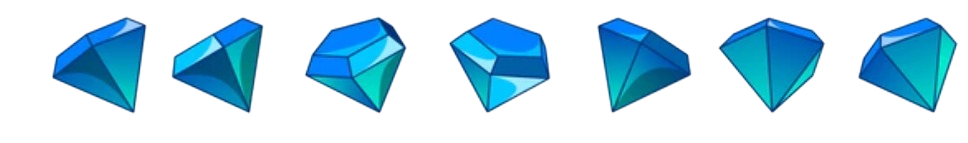
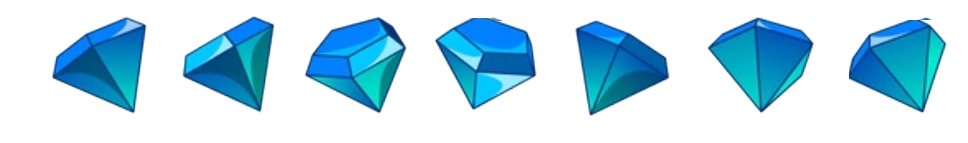
fixing animation

Changed region(s): [[0.4339, 0.1119, 0.9917, 0.8112], [0.155, 0.1119, 0.3099, 0.7832]]

diff --git a/oop2_proj/src/FileManager.cpp b/oop2_proj/src/FileManager.cpp
@@ -178,23 +178,26 @@ const AnimationData& FileManager::getStaticData(icons object)
 //--------------------------------------------------------------------
 //Set the Static objects animations data and time.
 
-AnimationData FileManager::createStaticAnimationData(const sf::Vector2i size,const sf::Vector2i initSpace,
-	const sf::Vector2i middleSpace,const int count)
+AnimationData FileManager::createStaticAnimationData(const sf::Vector2i size,const sf::Vector2i startPoint,const int count)
 {
 	auto staticData = AnimationData{};
-	auto currentStart = initSpace;
+	sf::Vector2i currSize;
+
+	currSize.x = size.x / count;
+	currSize.y = size.y;
+	auto currentStart = startPoint;
+
 	auto nextStart = [&]()
 	{
-		currentStart.x += size.x;
-		currentStart += middleSpace;
+		currentStart.x += currSize.x;
 		return currentStart;
 	};
 
-	staticData.m_data[Stay].emplace_back(currentStart, size);
+	staticData.m_data[Stay].emplace_back(currentStart, currSize);
 
 	for (int i = 0; i < count; i++) 
 	{
-		staticData.m_data[Stay].emplace_back(nextStart(), size);
+		staticData.m_data[Stay].emplace_back(nextStart(), currSize);
 	}
 
 	staticData.m_time[Stay] = 0.1f;
@@ -209,8 +212,8 @@ AnimationData FileManager::createStaticAnimationData(const sf::Vector2i size,con
 void FileManager::setAnimationsData()
 {
 
-	m_staticData[TELEPORT]=createStaticAnimationData({ 74, 100 }, { 518,0 }, { 0,0 }, 6);
-	m_staticData[DIAMOND] = createStaticAnimationData({ 100, 100 }, { 43,0 }, { 0,0 }, 6);
+	m_staticData[TELEPORT]=createStaticAnimationData({ 444, 100 }, { 518,0 }, 6);
+	m_staticData[DIAMOND] = createStaticAnimationData({ 900, 110 }, { 49,0 }, 7);
 
 	/*
 	m_staticData[KEY_DATA] =createStaticAnimationData({ 18,39 }, { 0,287 }, { 2,0 }, 4);

diff --git a/oop2_proj/src/DataBase.cpp b/oop2_proj/src/DataBase.cpp
@@ -43,6 +43,7 @@ void DataBase::createMovingObj(const char c, const sf::Vector2f& pos)
 	{
 	case PLAYER_C:
 		m_player = std::make_unique<Player>(pos);
+		std::cout << "player\n";
 		break;
 	//case FAIRY_C:
 	//	//cout << "add fairies" << i << " " << j << " \n";
@@ -137,7 +138,7 @@ void DataBase::move(sf::Time deltaTime)
 		f->move(deltaTime, m_levelSize);*/
 
 	//move current player
-	//m_players[m_currPlayer]->move(deltaTime, m_levelSize);
+	m_player->move(deltaTime);
 	//handelCollisions();
 }
 //-------------------------------------------------

diff --git a/oop2_proj/include/FileManager.h b/oop2_proj/include/FileManager.h
@@ -31,7 +31,7 @@ private:
 	FileManager(const FileManager&) = default;
 	FileManager& operator=(const FileManager&) = default;
 
-	AnimationData createStaticAnimationData(const sf::Vector2i ,const sf::Vector2i ,const sf::Vector2i ,const int );
+	AnimationData createStaticAnimationData(const sf::Vector2i,const sf::Vector2i ,const int );
 	void loadMovingObj();
 	void loadStaticObj();
 	void loadAudio();

diff --git a/oop2_proj/src/Controller.cpp b/oop2_proj/src/Controller.cpp
@@ -33,7 +33,7 @@ void Controller::run() try
 		m_window.draw(m_currLevelBackground);
 		m_dataBase.draw(m_window);
 		m_statusBar.draw(m_window);
-		//setView();
+		setView();
 		m_window.display();
 
 		for (auto event = sf::Event(); m_window.pollEvent(event); )

diff --git a/oop2_proj/src/StaticSrc/Diamond.cpp b/oop2_proj/src/StaticSrc/Diamond.cpp
@@ -3,7 +3,7 @@
 
 
 Diamond::Diamond(sf::Vector2f pos)
-	: StaticObj(sf::Vector2f(BLOCK_SIZE, BLOCK_SIZE), pos),
+	: StaticObj(sf::Vector2f(BLOCK_SIZE, BLOCK_SIZE/2), pos),
 	m_animation
 	(FileManager::p2FileManager().getStaticData(DIAMOND),
 		Stay,
